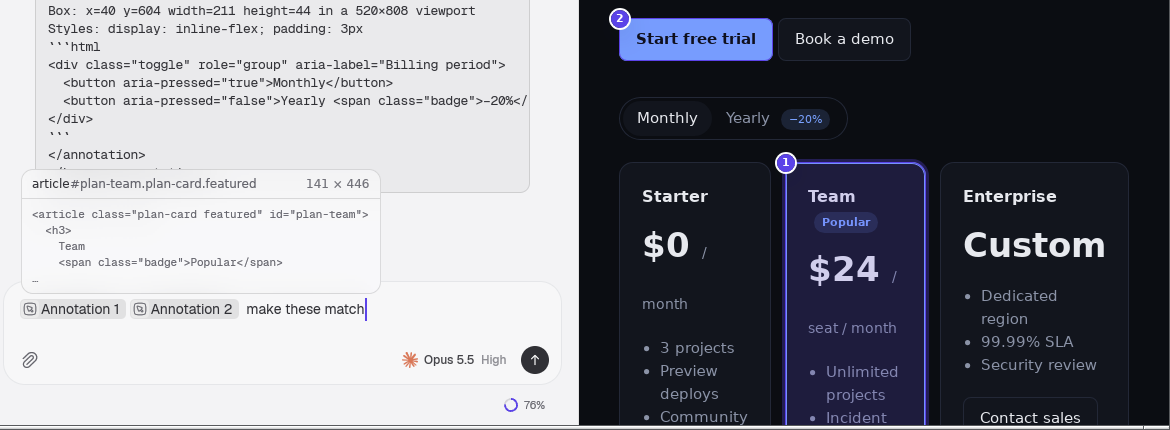
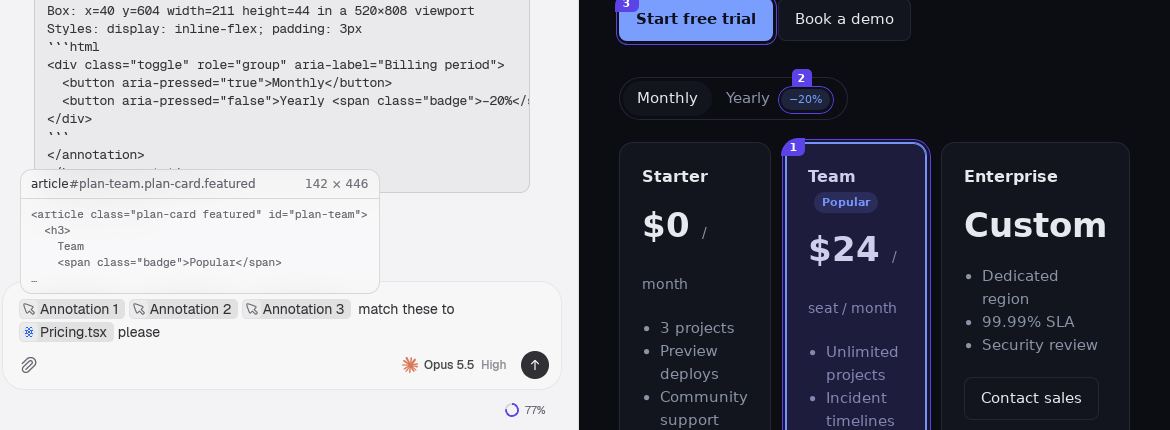
Browser annotations: numbers live in the outline, chips use a plain pointer glyph
The in-page markers wore their number as a circle stuck on top of the
outline, off-centre, and the outline drew right over the element's own
border.

- Outlines sit 2px outside the element and round like it, so they never
  double its border.
- A picked element's number is a tab cut into the outline's top-left corner,
  sharing its radius. An element too small to hold one wears it as a flag on
  its top edge. Numbers are centred with flex, not line-height.
- The hover label is the same accent flag, growing out of the outline's top
  edge (or hanging inside near the viewport top).
- A hovered chip deepens its element's fill instead of a soft glow, and the
  hint is a plain popover pill with a status dot.

The annotation chip's glyph was `cursor-square`, a framed icon that read as a
box inside the chip's well. It is now `cursor`, the pointer alone at the same
stroke weight as the other chip glyphs. The fixture seeds files to @-mention,
so file chips can be compared side by side.

diff --git a/crates/ui/src/browser/annotate.js b/crates/ui/src/browser/annotate.js
@@ -21,7 +21,6 @@
     'line-height','color','background-color','background-image','border','border-radius','box-shadow',
     'opacity','z-index','overflow'];
   const DEFAULTS = new Set(['none','normal','auto','0px','0px 0px','rgba(0, 0, 0, 0)','static','visible','1','0px none rgb(0, 0, 0)']);
-  const ICON = '<svg viewBox="0 0 24 24" fill="none" stroke="currentColor" stroke-width="1.5" stroke-linecap="round"><path stroke-linejoin="round" d="M14.86 16.5l-2.46-2.46-.75.75c-.77.77-1.16 1.15-1.57 1.06-.41-.09-.6-.6-.98-1.62L7.85 10.83c-.75-2.04-1.13-3.06-.6-3.59.52-.52 1.54-.15 3.58.6l3.4 1.26c1.02.38 1.53.56 1.62.98.09.41-.29.8-1.06 1.57l-.75.75 2.46 2.46c.25.25.38.38.44.52.08.19.08.4 0 .59-.06.14-.19.27-.44.52s-.38.38-.52.44a.78.78 0 0 1-.59 0c-.14-.06-.27-.19-.52-.44z"/><path d="M2 12c0-4.71 0-7.07 1.46-8.54C4.93 2 7.29 2 12 2s7.07 0 8.54 1.46C22 4.93 22 7.29 22 12s0 7.07-1.46 8.54C19.07 22 16.71 22 12 22s-7.07 0-8.54-1.46C2 19.07 2 16.71 2 12z"/></svg>';
   let state = 'idle', nonce = 0, picks = [], taken = 0, target = null, frame = 0, theme = {};
   let host = null, ui = null, marks = new Map(), seq = 0, layer = null, markFrame = 0, resizes = null, mutations = null;
 
@@ -161,7 +160,7 @@
     const t = theme, on = contrast(t.accent || '#7c6cf2');
     return `:host{all:initial;--accent:${t.accent};--on-accent:${on};--surface:${t.surface};--border:${t.border};` +
       `--text:${t.text};--muted:${t.muted};--faint:${t.faint};--chip:${t.chip};` +
-      `--shadow:${t.dark ? '0 8px 24px rgba(0,0,0,.45),0 1px 2px rgba(0,0,0,.3)' : '0 8px 24px rgba(15,20,30,.16),0 1px 2px rgba(15,20,30,.12)'};` +
+      `--shadow:${t.dark ? '0 6px 20px rgba(0,0,0,.4),0 1px 2px rgba(0,0,0,.3)' : '0 6px 20px rgba(15,20,30,.12),0 1px 2px rgba(15,20,30,.1)'};` +
       `--font:${JSON.stringify(t.font || 'system-ui')},system-ui,-apple-system,"Segoe UI",sans-serif}` +
       `*{box-sizing:border-box}`;
   };
@@ -171,10 +170,16 @@
     const [r, g, b] = [n >> 16, (n >> 8) & 255, n & 255].map((c) => { c /= 255; return c <= 0.03928 ? c / 12.92 : ((c + 0.055) / 1.055) ** 2.4; });
     return 0.2126 * r + 0.7152 * g + 0.0722 * b > 0.4 ? '#0b0d12' : '#ffffff';
   };
-  const radius = (el) => {
-    const r = parseFloat(getComputedStyle(el).borderTopLeftRadius) || 0;
-    return Math.min(r, 16) + 'px';
+  // Outlines sit just outside the element (a gap, then the 1.5px line), so
+  // they never draw over its own border, and round like it does.
+  const BORDER = 1.5, GAP = 2, OUT = BORDER + GAP, FLAG = 20, TAB = 18;
+  const ring = (el, r) => {
+    const own = Math.min(parseFloat(getComputedStyle(el).borderTopLeftRadius) || 0, r.width / 2, r.height / 2);
+    return { left: r.left - OUT, top: r.top - OUT, width: r.width + OUT * 2, height: r.height + OUT * 2, radius: Math.min(own + OUT, 18) || 4 };
   };
+  const place = (node, box) => Object.assign(node.style, {
+    left: box.left + 'px', top: box.top + 'px', width: box.width + 'px', height: box.height + 'px', borderRadius: box.radius + 'px',
+  });
   const shadowHost = (tag, z, css) => {
     const node = document.createElement(tag);
     node.style.cssText = `position:fixed;inset:0;z-index:${z};pointer-events:none;`;
@@ -183,41 +188,47 @@
     document.documentElement.appendChild(node);
     return [node, root];
   };
-  const BADGE = '.badge{position:fixed;min-width:18px;height:18px;padding:0 5px;border-radius:9px;background:var(--accent);color:var(--on-accent);' +
-    'font:600 11px/18px var(--font);text-align:center;font-variant-numeric:tabular-nums;box-shadow:0 0 0 2px var(--surface),var(--shadow)}';
+  // The accent flag: the hover label and a small element's number. It grows
+  // out of the outline's top edge (or hangs inside it near the viewport top).
+  const FLAG_CSS = `.flag{position:fixed;display:none;align-items:center;height:${FLAG}px;padding:0 7px;border-radius:5px 5px 0 0;
+      background:var(--accent);color:var(--on-accent);font:500 11px/1 var(--font);white-space:nowrap;overflow:hidden;max-width:min(70vw,440px)}
+    .flag.inside{border-radius:0 0 5px 5px}
+    .flag b,.flag .n{font-weight:650}
+    .flag .n,.flag .dim{font-variant-numeric:tabular-nums;flex:none}
+    .flag .cls{opacity:.72;overflow:hidden;text-overflow:ellipsis}
+    .flag .n{margin-right:6px}
+    .flag .dim{opacity:.6;margin-left:6px}`;
+  const flagAt = (flag, box, height) => {
+    const left = Math.max(4, Math.min(box.left + Math.max(box.radius, 6), innerWidth - flag.offsetWidth - 4));
+    const above = box.top - height + BORDER;
+    const inside = above < 2;
+    flag.classList.toggle('inside', inside);
+    flag.style.left = left + 'px';
+    flag.style.top = (inside ? Math.max(box.top, 0) : above) + 'px';
+  };
 
   const mount = () => {
     let root;
     [host, root] = shadowHost('zeron-annotator', 2147483647, `
-      .box{position:fixed;border:1.5px solid var(--accent);background:color-mix(in srgb,var(--accent) 10%,transparent);display:none;
-        transition:left 70ms ease-out,top 70ms ease-out,width 70ms ease-out,height 70ms ease-out,border-radius 70ms ease-out}
-      .tag{position:fixed;display:none;align-items:center;gap:6px;height:24px;padding:0 8px 0 4px;border-radius:7px;background:var(--surface);
-        border:1px solid var(--border);box-shadow:var(--shadow);font:500 12px/1 var(--font);white-space:nowrap;max-width:min(60vw,420px);overflow:hidden}
-      .tag .well{display:grid;place-items:center;width:18px;height:18px;border-radius:5px;background:var(--chip);color:var(--muted);flex:none}
-      .tag .well svg{width:12px;height:12px}
-      .tag .well.n{background:var(--accent);color:var(--on-accent);font:600 11px/1 var(--font);width:auto;min-width:18px;padding:0 4px}
-      .tag .name{display:flex;min-width:0;overflow:hidden}
-      .tag b{color:var(--text);font-weight:600;flex:none}
-      .tag .cls{color:var(--muted);overflow:hidden;text-overflow:ellipsis}
-      .tag .dim{color:var(--faint);font-variant-numeric:tabular-nums;flex:none}
-      .hint{position:fixed;left:50%;bottom:16px;display:flex;align-items:center;gap:10px;height:34px;padding:0 12px 0 8px;border-radius:12px;
-        background:color-mix(in srgb,var(--surface) 96%,transparent);-webkit-backdrop-filter:blur(18px) saturate(1.4);backdrop-filter:blur(18px) saturate(1.4);
-        border:1px solid var(--border);box-shadow:var(--shadow);font:500 12.5px/1 var(--font);color:var(--text);white-space:nowrap;
-        transform:translate(-50%,0);opacity:1;transition:opacity 140ms ease-out,transform 140ms ease-out,top 140ms ease-out,bottom 140ms ease-out}
-      .hint.enter{opacity:0;transform:translate(-50%,6px)}
-      .hint.top{bottom:auto;top:16px}
-      .hint .icon{display:grid;place-items:center;width:22px;height:22px;border-radius:6px;background:color-mix(in srgb,var(--accent) 16%,transparent);color:var(--accent)}
-      .hint .icon svg{width:14px;height:14px}
-      .hint .sep{width:1px;height:14px;background:var(--border)}
-      .hint .keys{display:flex;align-items:center;gap:6px;color:var(--muted);font-weight:400}
-      .hint kbd{display:inline-grid;place-items:center;min-width:18px;height:18px;padding:0 5px;border-radius:5px;background:var(--chip);
-        color:var(--text);font:500 11px/1 var(--font)}
+      .box{position:fixed;display:none;border:${BORDER}px solid var(--accent);background:color-mix(in srgb,var(--accent) 8%,transparent);
+        transition:left 80ms ease-out,top 80ms ease-out,width 80ms ease-out,height 80ms ease-out,border-radius 80ms ease-out}
+      ${FLAG_CSS}
+      .hint{position:fixed;left:50%;bottom:14px;display:flex;align-items:center;gap:10px;height:32px;padding:0 6px 0 11px;border-radius:10px;
+        background:var(--surface);border:1px solid var(--border);box-shadow:var(--shadow);font:500 12px/1 var(--font);color:var(--text);white-space:nowrap;
+        transform:translate(-50%,0);transition:opacity 140ms ease-out,transform 140ms ease-out}
+      .hint.enter{opacity:0;transform:translate(-50%,4px)}
+      .hint.top{bottom:auto;top:14px}
+      .hint .dot{width:6px;height:6px;border-radius:3px;background:var(--accent);flex:none}
+      .hint .keys{display:flex;align-items:center;gap:5px;color:var(--muted);font-weight:400}
+      .hint .keys kbd+span+kbd{margin-left:6px}
+      .hint kbd{display:inline-flex;align-items:center;justify-content:center;min-width:20px;height:20px;padding:0 5px;border-radius:5px;
+        background:var(--chip);color:var(--text);font:500 11px/1 var(--font)}
       @media (prefers-reduced-motion:reduce){.box,.hint{transition:none}}
     `);
-    root.innerHTML += `<div class="box"></div><div class="tag"></div>
-      <div class="hint enter"><span class="icon">${ICON}</span><span class="title">Click an element to annotate</span><span class="sep"></span>
-      <span class="keys"><kbd>⇧</kbd>Add more<kbd>Esc</kbd>Done</span></div>`;
-    ui = { box: root.querySelector('.box'), tag: root.querySelector('.tag'), hint: root.querySelector('.hint'), title: root.querySelector('.title') };
+    root.innerHTML += `<div class="box"></div><div class="flag"></div>
+      <div class="hint enter"><span class="dot"></span><span class="title">Select an element</span>
+      <span class="keys"><kbd>⇧</kbd><span>Add more</span><kbd>Esc</kbd><span>Done</span></span></div>`;
+    ui = { box: root.querySelector('.box'), flag: root.querySelector('.flag'), hint: root.querySelector('.hint'), title: root.querySelector('.title') };
     requestAnimationFrame(() => ui && ui.hint.classList.remove('enter'));
     const cursor = document.createElement('style');
     cursor.id = 'zeron-annotator-cursor';
@@ -228,26 +239,24 @@
   const label = (el, r) => {
     const n = markOf(el);
     const name = el.tagName.toLowerCase();
-    const rest = describe(el).slice(name.length);
-    const well = n ? `<span class="well n">${n}</span>` : `<span class="well">${ICON}</span>`;
-    ui.tag.innerHTML = `${well}<span class="name"><b></b><span class="cls"></span></span><span class="dim"></span>`;
-    ui.tag.querySelector('b').textContent = name;
-    ui.tag.querySelector('.cls').textContent = rest;
-    ui.tag.querySelector('.dim').textContent = `${Math.round(r.width)} × ${Math.round(r.height)}`;
+    ui.flag.innerHTML = `${n ? '<span class="n"></span>' : ''}<b></b><span class="cls"></span><span class="dim"></span>`;
+    if (n) ui.flag.querySelector('.n').textContent = String(n);
+    ui.flag.querySelector('b').textContent = name;
+    ui.flag.querySelector('.cls').textContent = describe(el).slice(name.length);
+    ui.flag.querySelector('.dim').textContent = `${Math.round(r.width)} × ${Math.round(r.height)}`;
   };
   const paint = () => {
     frame = 0;
     if (!target || !ui) return;
     const r = target.getBoundingClientRect();
-    Object.assign(ui.box.style, { display: 'block', left: r.left + 'px', top: r.top + 'px', width: r.width + 'px', height: r.height + 'px', borderRadius: radius(target) });
+    const box = ring(target, r);
+    place(ui.box, box);
+    ui.box.style.display = 'block';
     label(target, r);
-    ui.tag.style.display = 'flex';
-    const h = 24, gap = 6;
-    const above = r.top - h - gap;
-    ui.tag.style.left = Math.max(6, Math.min(r.left, innerWidth - ui.tag.offsetWidth - 6)) + 'px';
-    ui.tag.style.top = (above >= 6 ? above : Math.min(r.bottom + gap, innerHeight - h - 6)) + 'px';
+    ui.flag.style.display = 'flex';
+    flagAt(ui.flag, box, FLAG);
     // Keep the hint off the element being pointed at.
-    ui.hint.classList.toggle('top', r.bottom > innerHeight - 64 && r.top > 64);
+    ui.hint.classList.toggle('top', r.bottom > innerHeight - 60 && r.top > 60);
   };
   const schedule = () => { if (!frame) frame = requestAnimationFrame(paint); };
   const at = (x, y) => {
@@ -255,21 +264,31 @@
     return el && el !== host && el !== layer && el !== document.documentElement ? el : null;
   };
 
-  // Picked elements stay outlined with their number until their chip leaves
-  // the draft. Repaints run only when something moves (scroll, resize,
-  // layout or DOM changes), never on a timer.
+  // Picked elements keep their outline, numbered like their chip, until the
+  // chip leaves the draft. The number is a tab cut into the outline's corner;
+  // an element too small to hold one wears it as a flag on its top edge.
+  // Repaints run only when something moves, never on a timer.
   const paintMarks = () => {
     markFrame = 0;
     for (const mark of marks.values()) {
       const r = mark.el.isConnected ? mark.el.getBoundingClientRect() : null;
       const shown = r && r.width + r.height > 0 && r.bottom > 0 && r.top < innerHeight;
-      mark.box.style.display = mark.badge.style.display = shown ? 'block' : 'none';
-      if (!shown) continue;
-      Object.assign(mark.box.style, { left: r.left + 'px', top: r.top + 'px', width: r.width + 'px', height: r.height + 'px' });
-      // The badge sits on the top-left corner but never leaves the viewport.
-      const bw = mark.badge.offsetWidth || 18;
-      mark.badge.style.left = Math.max(4, Math.min(r.left - 8, innerWidth - bw - 4)) + 'px';
-      mark.badge.style.top = Math.max(4, Math.min(r.top - 8, innerHeight - 22)) + 'px';
+      mark.box.style.display = shown ? 'block' : 'none';
+      if (!shown) { mark.flag.style.display = 'none'; continue; }
+      const box = ring(mark.el, r);
+      place(mark.box, box);
+      mark.small = box.width < 44 || box.height < 34;
+      mark.tab.style.display = mark.small ? 'none' : 'flex';
+      mark.flag.style.display = mark.small ? 'flex' : 'none';
+      if (mark.small) {
+        flagAt(mark.flag, box, TAB);
+      } else {
+        mark.tab.style.borderRadius = `${Math.min(box.radius, TAB)}px 0 6px 0`;
+        mark.tab.style.paddingLeft = Math.max(6, box.radius * 0.45) + 'px';
+        // An outline cut off by the viewport's top keeps its number in view.
+        const hidden = Math.max(0, -box.top);
+        mark.tab.style.transform = hidden ? `translateY(${Math.min(hidden, box.height - TAB)}px)` : '';
+      }
     }
   };
   const scheduleMarks = () => { if (!markFrame) markFrame = requestAnimationFrame(paintMarks); };
@@ -277,15 +296,19 @@
     if (on && !layer) {
       let root;
       [layer, root] = shadowHost('zeron-annotations', 2147483646, `
-        .mark{position:fixed;border:1.5px solid var(--accent);background:color-mix(in srgb,var(--accent) 6%,transparent);display:none}
-        ${BADGE}
-        .badge:empty{visibility:hidden}
-        .mark.new{animation:settle 260ms ease-out}
-        .badge.new{animation:pop 260ms cubic-bezier(.2,1.4,.4,1)}
-        .mark.focus{background:color-mix(in srgb,var(--accent) 16%,transparent);box-shadow:0 0 0 3px color-mix(in srgb,var(--accent) 30%,transparent)}
-        @keyframes settle{from{background:color-mix(in srgb,var(--accent) 28%,transparent)}}
-        @keyframes pop{from{transform:scale(.4);opacity:0}}
-        @media (prefers-reduced-motion:reduce){.mark.new,.badge.new{animation:none}}
+        .mark{position:fixed;display:none;border:${BORDER}px solid var(--accent);background:color-mix(in srgb,var(--accent) 4%,transparent);
+          transition:background-color 120ms ease-out}
+        .mark.focus{background:color-mix(in srgb,var(--accent) 16%,transparent)}
+        .tab{position:absolute;left:-${BORDER}px;top:-${BORDER}px;display:flex;align-items:center;justify-content:center;
+          min-width:24px;height:${TAB}px;padding:0 7px 0 6px;background:var(--accent);color:var(--on-accent);
+          font:650 11px/1 var(--font);font-variant-numeric:tabular-nums}
+        .tab:empty{visibility:hidden}
+        ${FLAG_CSS}
+        .flag{height:${TAB}px;padding:0 6px;font-weight:650;font-variant-numeric:tabular-nums}
+        .flag:empty{visibility:hidden}
+        .mark.new{animation:settle 320ms ease-out}
+        @keyframes settle{from{background:color-mix(in srgb,var(--accent) 26%,transparent)}}
+        @media (prefers-reduced-motion:reduce){.mark,.mark.new{transition:none;animation:none}}
       `);
       layer.root = root;
       resizes = new ResizeObserver(scheduleMarks);
@@ -306,12 +329,14 @@
     watchMarks(true);
     const box = document.createElement('div');
     box.className = 'mark new';
-    box.style.borderRadius = radius(el);
-    const badge = document.createElement('div');
-    badge.className = 'badge';
-    layer.root.append(box, badge);
+    const tab = document.createElement('div');
+    tab.className = 'tab';
+    box.appendChild(tab);
+    const flag = document.createElement('div');
+    flag.className = 'flag';
+    layer.root.append(box, flag);
     resizes.observe(el);
-    marks.set(++seq, { el, box, badge, n: 0 });
+    marks.set(++seq, { el, box, tab, flag, small: false, n: 0 });
     scheduleMarks();
     return seq;
   };
@@ -325,7 +350,7 @@
     if (!el) return;
     picks.push({ ...capture(el), marker: mark(el) });
     if (!e.shiftKey) stop('done');
-    else if (ui) ui.title.textContent = `${picks.length + taken} added · Click the last one`;
+    else if (ui) ui.title.textContent = `${picks.length + taken} selected`;
   };
   const onKey = (e) => { if (e.isTrusted && e.key === 'Escape') { swallow(e); stop('cancelled'); } };
   const LISTEN = [['mousemove', onMove], ['click', onClick], ['mousedown', swallow], ['mouseup', swallow],
@@ -359,13 +384,12 @@
       const found = marks.get(id);
       if (!found) return;
       found.n = n;
-      found.badge.textContent = String(n);
-      found.badge.classList.add('new');
+      found.tab.textContent = found.flag.textContent = String(n);
       scheduleMarks();
     },
     keep(numbers) {
       for (const [id, found] of marks) {
-        if (!numbers.includes(found.n)) { resizes.unobserve(found.el); found.box.remove(); found.badge.remove(); marks.delete(id); }
+        if (!numbers.includes(found.n)) { resizes.unobserve(found.el); found.box.remove(); found.flag.remove(); marks.delete(id); }
       }
       if (!marks.size) watchMarks(false);
     },

diff --git a/crates/ui/examples/browser-annotation-fixture.rs b/crates/ui/examples/browser-annotation-fixture.rs
@@ -68,7 +68,13 @@ fn main() -> anyhow::Result<()> {
     let site = format!("http://127.0.0.1:{}/", serve_site());
     let temp = tempfile::tempdir()?;
     let workspace = temp.path().join("workspace");
-    std::fs::create_dir_all(&workspace)?;
+    std::fs::create_dir_all(workspace.join("src"))?;
+    // Files to @-mention, so annotation chips sit beside file chips.
+    std::fs::write(
+        workspace.join("src/Pricing.tsx"),
+        "export function Pricing() {}\n",
+    )?;
+    std::fs::write(workspace.join("src/pricing.css"), ".plan-card {}\n")?;
     let runtime = tokio::runtime::Runtime::new()?;
     let core = runtime.block_on(async {
         zeron_engine::EngineCore::assemble(

diff --git a/crates/ui/src/composer/chip.rs b/crates/ui/src/composer/chip.rs
@@ -175,7 +175,7 @@ pub(crate) fn chip_icon(
         ChipKind::Skill => ChipIcon::Glyph(crate::icons::MAGIC_STICK_3),
         ChipKind::Command => ChipIcon::Glyph(crate::icons::COMMAND),
         ChipKind::Chat => ChipIcon::Glyph(crate::icons::CHAT_ROUND_LINE),
-        ChipKind::Annotation => ChipIcon::Glyph(crate::icons::CURSOR_SQUARE),
+        ChipKind::Annotation => ChipIcon::Glyph(crate::icons::CURSOR),
         ChipKind::File => ChipIcon::FileTheme(asset_path(FileIconIdentity::file(path), appearance)),
         ChipKind::Directory => ChipIcon::FileTheme(asset_path(
             FileIconIdentity::directory(path.trim_end_matches('/'), false),

diff --git a/crates/ui/src/composer.rs b/crates/ui/src/composer.rs
@@ -14281,7 +14281,7 @@ mod tests {
         assert_eq!(link.kind, ChipKind::Annotation);
         assert!(matches!(
             chip_icon(link.kind, &link.path, crate::theme::Appearance::Dark),
-            ChipIcon::Glyph(crate::icons::CURSOR_SQUARE)
+            ChipIcon::Glyph(crate::icons::CURSOR)
         ));
         assert!(projection.display[display.clone()].contains("Annotation\u{a0}1"));
         let (text, spans) = sent_mention_display(&raw).unwrap();

diff --git a/crates/ui/src/icons.rs b/crates/ui/src/icons.rs
@@ -64,6 +64,8 @@ icon_assets![
     // Browser globe, drawn in the same linear weight as the toolbar family.
     (GLOBE, "globe"),
     (CURSOR_SQUARE, "cursor-square"),
+    // The pointer alone: an annotation chip's glyph inside its well.
+    (CURSOR, "cursor"),
     (LAPTOP, "laptop"),
     (PEN_NEW_SQUARE, "pen-new-square"),
     (SORT, "sort"),

diff --git a/docs/reference/browser-annotations.md b/docs/reference/browser-annotations.md
@@ -11,10 +11,12 @@ closed shadow roots, so page styles cannot reach it and hit testing is
 unchanged, and it takes the app's theme (accent, popover surface, border, text
 and UI font) from the host, so it reads as Zeron chrome in light and dark.
 
-- The hovered element gets an accent outline that follows its corner radius,
-  and a popover-style label: an icon well (or the element's number once it is
-  picked), the tag, its `#id.class` and `w × h`.
-- A hint pill names the mode and its keys: **Click an element to annotate**,
+- Outlines sit just outside the element (a 2px gap, then a 1.5px accent
+  line) and round like it, so they never draw over the element's own border.
+- The hovered element's label is an accent flag growing out of the outline's
+  top edge (hanging inside it near the top of the viewport): the tag, its
+  `#id.class` and `w × h`, led by its number once it is picked.
+- A hint pill names the mode and its keys: **Select an element**,
   <kbd>⇧</kbd> **Add more**, <kbd>Esc</kbd> **Done**. It moves to the top when
   the pointer is near the bottom of the page.
 - A click picks the element and ends the mode; Shift+click picks several (the
@@ -24,10 +26,12 @@ and UI font) from the host, so it reads as Zeron chrome in light and dark.
 The host polls `take(nonce)` every 100 ms only while a pick is active. When the
 page navigates, the poll reports `gone` and the session ends.
 
-Each picked element keeps an outline and a numbered badge matching its chip.
-The badge stays inside the viewport, and markers repaint only when something
-moves (scroll, resize, layout or DOM changes). Hovering a chip in the
-composer highlights its element's marker. Removing a chip, or sending the
+Each picked element keeps its outline, numbered like its chip. The number is
+a tab cut into the outline's top-left corner, sharing its radius; an element
+too small to hold one wears it as a flag on its top edge instead. The number
+stays in view when the outline is cut off by the viewport, and markers
+repaint only when something moves (scroll, resize, layout or DOM changes).
+Hovering a chip in the composer deepens its element's outline fill. Removing a chip, or sending the
 message, removes its marker; reloading the page clears them all. Animations
 respect `prefers-reduced-motion`.
 
@@ -57,8 +61,8 @@ everything it returns as page data:
 
 ## In the composer and transcript
 
-A pick becomes an inline chip in the standard chip style: the toolbar's
-annotate glyph and `Annotation N`, numbered after the draft's existing
+A pick becomes an inline chip in the standard chip style: a pointer glyph in
+the chip's well (a line icon like the other chip kinds') and `Annotation N`, numbered after the draft's existing
 annotations. Hovering it shows the element and its size above the opening of
 its code. The
 draft stores one Markdown token per annotation,
